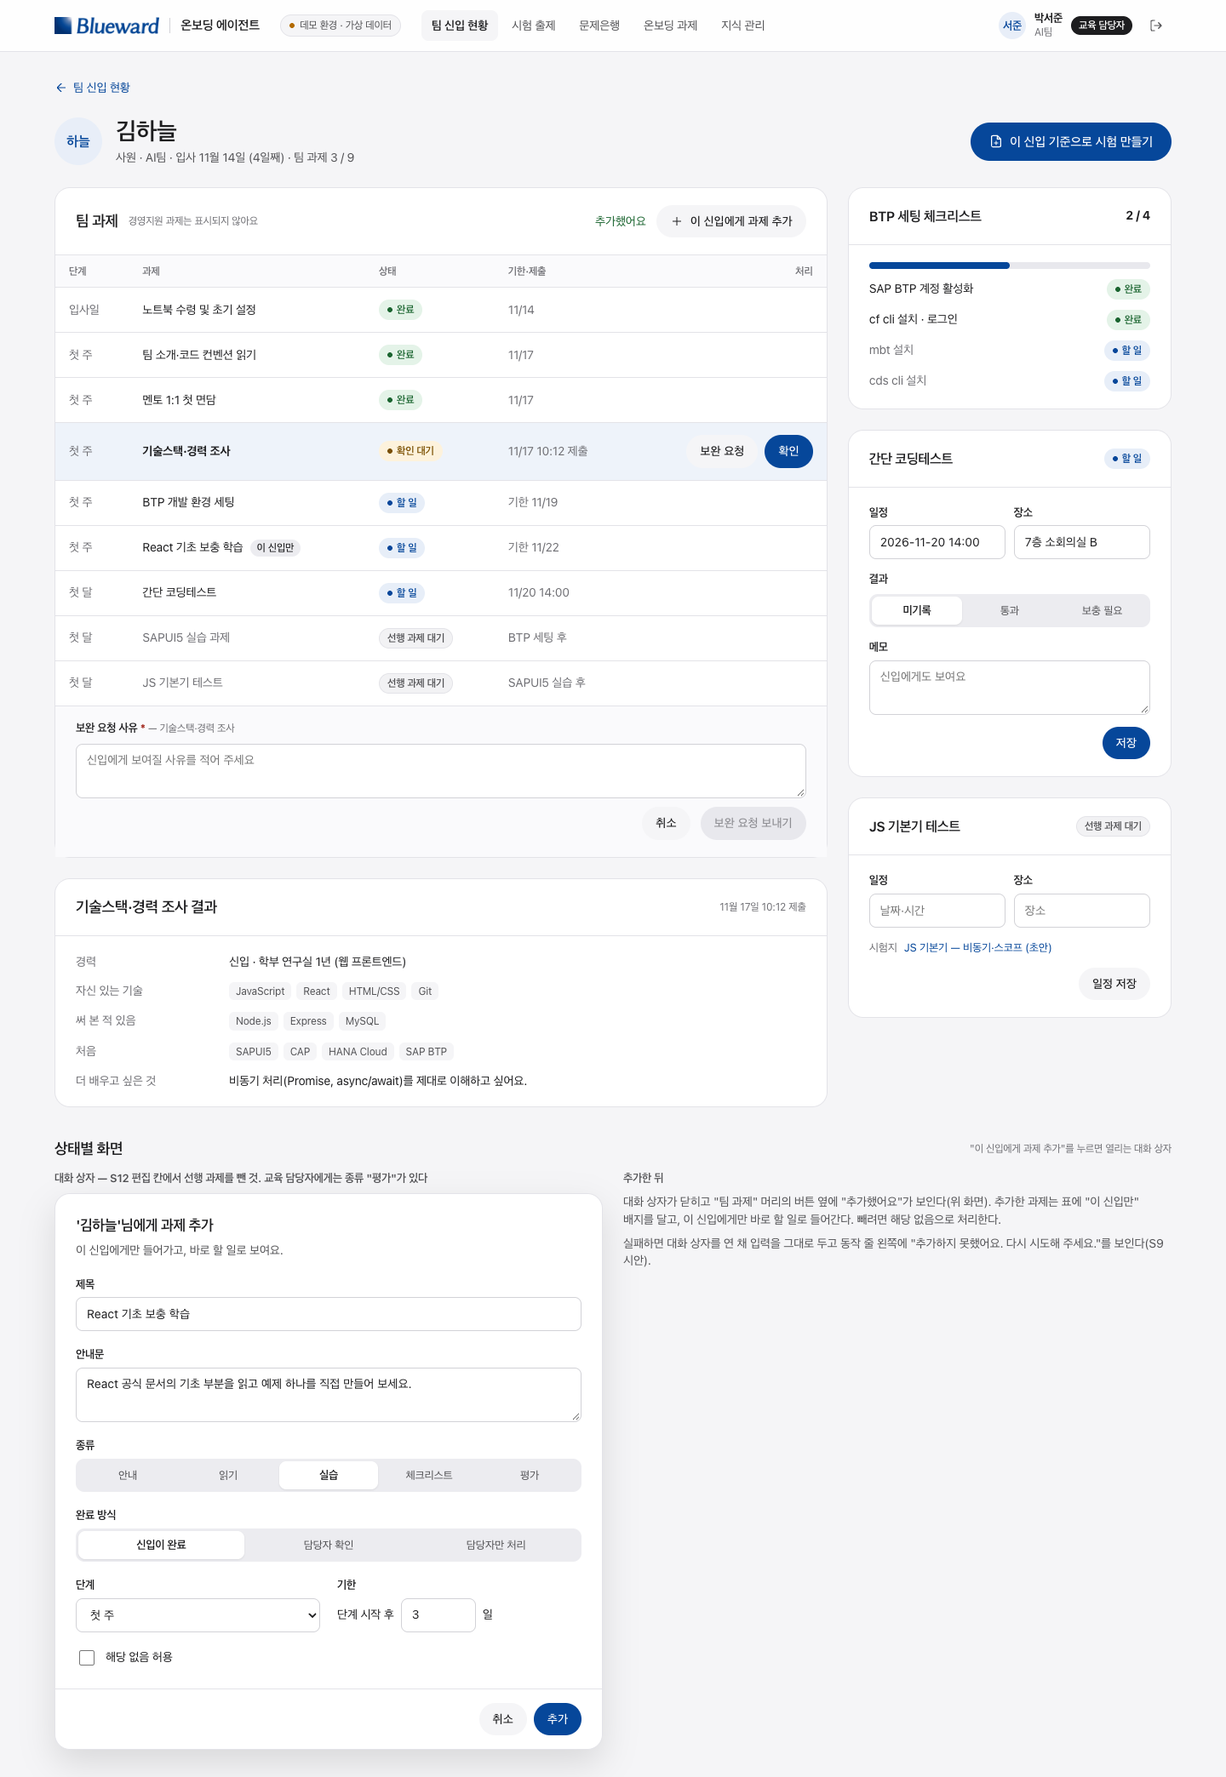
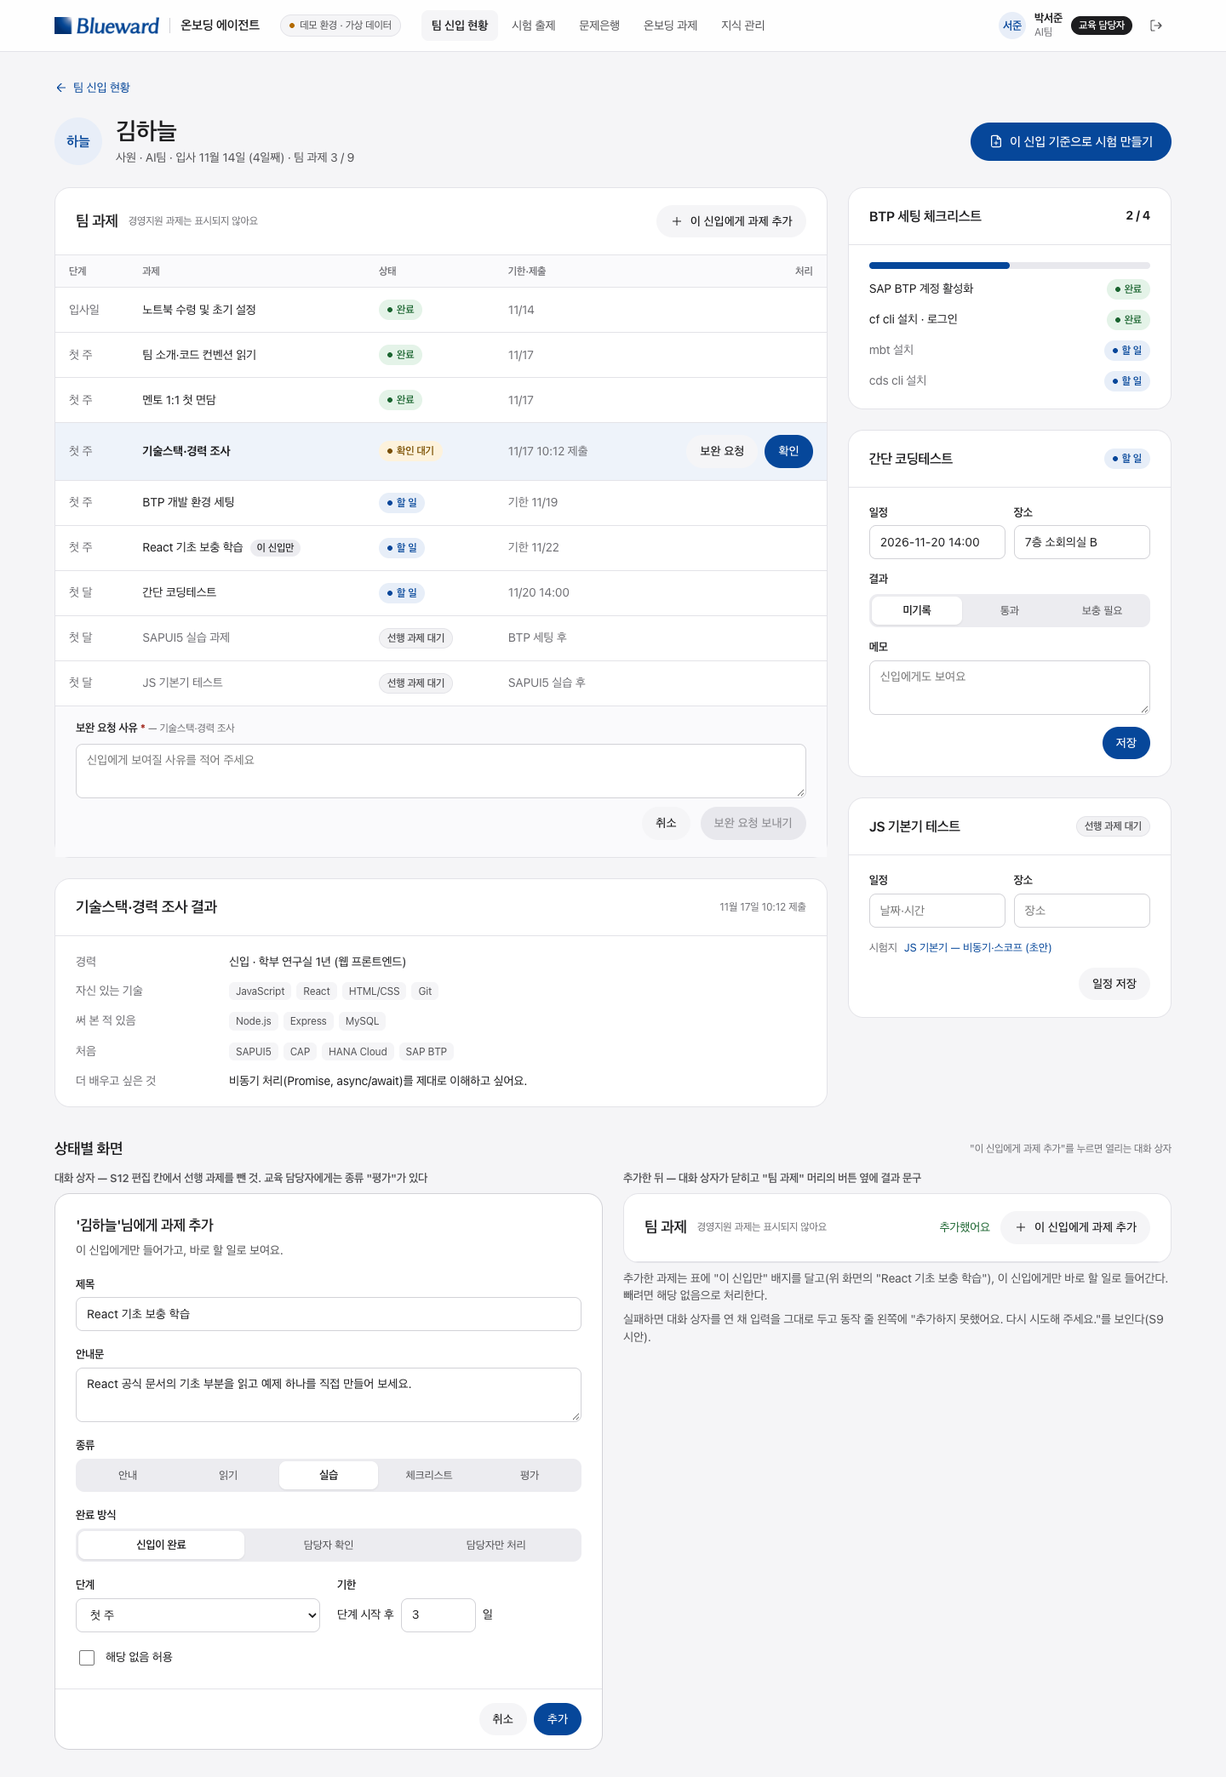
fix(design): particle-safe copy, borderless-shadow dialogs, legible read-only fields
- Copy: put a noun after quoted names so the particle never depends on
  the name ('파일 이름' 파일은/파일이/서식이/서식을, '제목' 과제를) in
  screens.md, both plans and the S12 mockup.
- Dialogs: drop the shadow (depth by borders only) and use the strong
  border, like the app's dialog.
- Read-only fields (S12 lock and archive): muted background with full
  text and the chosen segment kept as is, instead of fading the value.
  system.md gets the rule.
- S6: "추가했어요" moves from the base screen into a labeled state frame.
- ui.css comment points to S12 온보딩 과제.

Changed region(s): [[0.5, 0.6537, 0.9375, 0.7471]]

diff --git a/docs/design/onboarding-design/screens/S12-tasks.html b/docs/design/onboarding-design/screens/S12-tasks.html
@@ -33,9 +33,10 @@ a{color:var(--primary)}a:hover{color:var(--primary-pressed)}
 /* 체크리스트 항목 편집 */
 .items{display:flex;flex-direction:column;gap:8px}
 .item{display:flex;align-items:center;gap:6px}
-/* 비활성 칸은 코드(components/ui)의 disabled:opacity-50과 같게 */
-.input:disabled,.textarea:disabled,.select:disabled{opacity:.5;cursor:not-allowed}
-.check:has(input:disabled){opacity:.5;cursor:not-allowed}
+/* 읽기 전용 칸(사용 중 잠금·보관): 흐리게 하지 않는다. muted 바탕에 글자는 그대로, 세그먼트는 고른 값만 그대로(system.md "읽기 전용 칸") */
+.input:disabled,.textarea:disabled,.select:disabled{background:var(--canvas);color:var(--foreground);opacity:1;cursor:not-allowed}
+.seg label:has(input:disabled:checked){opacity:1}
+.check:has(input:disabled){cursor:not-allowed}
 /* 패널 동작 줄(편집 칸 아래). 결과·오류 문구는 왼쪽 */
 .panel-actions{display:flex;flex-wrap:wrap;align-items:center;justify-content:flex-end;gap:8px;padding:16px 24px;border-top:1px solid var(--border)}
 /* 서식 영역(편집 칸 동작 줄 아래, 저장과 따로 바로 올라간다) */
@@ -44,7 +45,8 @@ a{color:var(--primary)}a:hover{color:var(--primary-pressed)}
 .ok-text{font-size:14px;color:var(--st-done-fg)}
 .err-text{font-size:14px;color:var(--destructive)}
 .empty{padding:56px 24px;text-align:center;color:var(--muted);font-size:14px}
-.dialog{padding:24px;display:flex;flex-direction:column;gap:10px;box-shadow:0 16px 40px rgba(0,0,0,.12)}
+/* 확인 창: 그림자 없이 진한 테두리(깊이는 테두리로만) */
+.dialog{padding:24px;display:flex;flex-direction:column;gap:10px;border-color:var(--border-strong)}
 .states{display:flex;flex-direction:column;gap:16px;margin-top:12px}
 .states h3{font-size:15px;color:var(--secondary)}
 .state-grid-2{display:grid;grid-template-columns:repeat(2,minmax(0,1fr));gap:16px 24px;align-items:start}
@@ -449,14 +451,14 @@ a{color:var(--primary)}a:hover{color:var(--primary-pressed)}
           <div class="alert alert-err" role="alert" style="padding: 12px 14px; font-size: 13px">
             <svg class="ic" viewBox="0 0 24 24" aria-hidden="true" style="margin-top: 1px"><circle cx="12" cy="12" r="10"></circle><path d="M12 8v4M12 16h.01"></path></svg>
             <div style="display: flex; flex-direction: column; gap: 2px; flex: 1">
-              <span>'법인카드 사본.jpg'은 올릴 수 없어요. docx, xlsx, pdf 파일만 올릴 수 있어요.</span>
-              <span>'카드 이용 약관.pdf'이 10MB를 넘어요. 10MB 이하로 줄여서 올려 주세요.</span>
-              <span>'카드 신청 안내.pdf'이 이미 있어요. 바꾸려면 기존 서식을 지운 뒤 올려 주세요.</span>
+              <span>'법인카드 사본.jpg' 파일은 올릴 수 없어요. docx, xlsx, pdf 파일만 올릴 수 있어요.</span>
+              <span>'카드 이용 약관.pdf' 파일이 10MB를 넘어요. 10MB 이하로 줄여서 올려 주세요.</span>
+              <span>'카드 신청 안내.pdf' 서식이 이미 있어요. 바꾸려면 기존 서식을 지운 뒤 올려 주세요.</span>
             </div>
             <button class="icon-btn" type="button" aria-label="알림 닫기" style="width: 28px; height: 28px; color: var(--alert-err-fg)"><svg class="ic" viewBox="0 0 24 24" aria-hidden="true"><path d="M18 6L6 18M6 6l12 12"></path></svg></button>
           </div>
           <div role="alertdialog" aria-labelledby="del-t" aria-describedby="del-d" class="card dialog">
-            <h2 id="del-t" style="font-size: 17px">'카드 신청 안내.pdf'을 지울까요?</h2>
+            <h2 id="del-t" style="font-size: 17px">'카드 신청 안내.pdf' 서식을 지울까요?</h2>
             <p id="del-d" class="secondary">이 과제를 받은 신입 모두의 화면에서 사라져요.</p>
             <div class="row" style="justify-content: flex-end; gap: 8px; margin-top: 8px"><button class="btn btn-ghost btn-sm" type="button">취소</button><button class="btn btn-destructive btn-sm" type="button">지우기</button></div>
           </div>
@@ -468,7 +470,7 @@ a{color:var(--primary)}a:hover{color:var(--primary-pressed)}
         <div class="col" style="gap: 8px">
           <span class="state-label">보관 확인</span>
           <div role="alertdialog" aria-labelledby="arc-t" aria-describedby="arc-d" class="card dialog">
-            <h2 id="arc-t" style="font-size: 17px">'프린터 사용'을 보관할까요?</h2>
+            <h2 id="arc-t" style="font-size: 17px">'프린터 사용' 과제를 보관할까요?</h2>
             <p id="arc-d" class="secondary">이후 온보딩을 시작하는 신입에게 들어가지 않아요. 진행 중인 신입의 과제는 그대로예요.</p>
             <div class="row" style="justify-content: flex-end; gap: 8px; margin-top: 8px"><button class="btn btn-ghost btn-sm" type="button">취소</button><button class="btn btn-primary btn-sm" type="button">보관</button></div>
           </div>

diff --git a/docs/design/onboarding-design/screens/S6-hire-detail.html b/docs/design/onboarding-design/screens/S6-hire-detail.html
@@ -51,8 +51,8 @@ a{color:var(--primary)}a:hover{color:var(--primary-pressed)}
         <section class="card">
           <div class="card-hd">
             <div class="row" style="gap: 12px; flex-wrap: wrap"><h2 style="font-size: 18px">팀 과제</h2><span class="caption">경영지원 과제는 표시되지 않아요</span></div>
-            <!-- 이 신입에게 과제 추가: 대화 상자를 연다(아래 상태별 화면). 추가하면 닫히고 버튼 옆에 결과 문구 -->
-            <div class="row" style="gap: 12px"><span role="status" class="ok-text">추가했어요</span><button class="btn btn-ghost btn-sm" type="button" aria-haspopup="dialog"><svg class="ic" viewBox="0 0 24 24" aria-hidden="true"><path d="M12 5v14M5 12h14"></path></svg>이 신입에게 과제 추가</button></div>
+            <!-- 이 신입에게 과제 추가: 대화 상자를 연다(아래 상태별 화면). 추가하면 닫히고 버튼 옆에 결과 문구(아래 "추가한 뒤") -->
+            <div class="row" style="gap: 12px"><button class="btn btn-ghost btn-sm" type="button" aria-haspopup="dialog"><svg class="ic" viewBox="0 0 24 24" aria-hidden="true"><path d="M12 5v14M5 12h14"></path></svg>이 신입에게 과제 추가</button></div>
           </div>
           <div class="tbl-wrap">
             <table class="tbl">
@@ -138,7 +138,7 @@ a{color:var(--primary)}a:hover{color:var(--primary-pressed)}
       <div class="grid-2" style="gap: 24px; align-items: start">
         <div class="col" style="gap: 8px">
           <span class="state-label">대화 상자 — S12 편집 칸에서 선행 과제를 뺀 것. 교육 담당자에게는 종류 "평가"가 있다</span>
-          <div role="dialog" aria-modal="true" aria-labelledby="add-t" aria-describedby="add-d" class="card" style="overflow: hidden; box-shadow: 0 16px 40px rgba(0, 0, 0, 0.12)">
+          <div role="dialog" aria-modal="true" aria-labelledby="add-t" aria-describedby="add-d" class="card" style="overflow: hidden; border-color: var(--border-strong)">
             <div class="col" style="gap: 6px; padding: 24px 24px 0">
               <h2 id="add-t" style="font-size: 17px">'김하늘'님에게 과제 추가</h2>
               <p id="add-d" class="secondary">이 신입에게만 들어가고, 바로 할 일로 보여요.</p>
@@ -162,8 +162,14 @@ a{color:var(--primary)}a:hover{color:var(--primary-pressed)}
           </div>
         </div>
         <div class="col" style="gap: 8px">
-          <span class="state-label">추가한 뒤</span>
-          <p class="secondary">대화 상자가 닫히고 "팀 과제" 머리의 버튼 옆에 "추가했어요"가 보인다(위 화면). 추가한 과제는 표에 "이 신입만" 배지를 달고, 이 신입에게만 바로 할 일로 들어간다. 빼려면 해당 없음으로 처리한다.</p>
+          <span class="state-label">추가한 뒤 — 대화 상자가 닫히고 "팀 과제" 머리의 버튼 옆에 결과 문구</span>
+          <section class="card" style="overflow: hidden">
+            <div class="card-hd">
+              <div class="row" style="gap: 12px; flex-wrap: wrap"><h2 style="font-size: 18px">팀 과제</h2><span class="caption">경영지원 과제는 표시되지 않아요</span></div>
+              <div class="row" style="gap: 12px"><span role="status" class="ok-text">추가했어요</span><button class="btn btn-ghost btn-sm" type="button" aria-haspopup="dialog"><svg class="ic" viewBox="0 0 24 24" aria-hidden="true"><path d="M12 5v14M5 12h14"></path></svg>이 신입에게 과제 추가</button></div>
+            </div>
+          </section>
+          <p class="secondary">추가한 과제는 표에 "이 신입만" 배지를 달고(위 화면의 "React 기초 보충 학습"), 이 신입에게만 바로 할 일로 들어간다. 빼려면 해당 없음으로 처리한다.</p>
           <p class="secondary">실패하면 대화 상자를 연 채 입력을 그대로 두고 동작 줄 왼쪽에 "추가하지 못했어요. 다시 시도해 주세요."를 보인다(S9 시안).</p>
         </div>
       </div>

diff --git a/docs/design/onboarding-design/screens/S9-ops.html b/docs/design/onboarding-design/screens/S9-ops.html
@@ -122,7 +122,7 @@ a{color:var(--primary)}a:hover{color:var(--primary-pressed)}
       <div class="grid-2" style="gap: 24px; align-items: start">
         <div class="col" style="gap: 8px">
           <span class="state-label">대화 상자 — S6과 같다. 경영지원에게는 종류 "평가"가 없다</span>
-          <div role="dialog" aria-modal="true" aria-labelledby="add-t" aria-describedby="add-d" class="card" style="overflow: hidden; box-shadow: 0 16px 40px rgba(0, 0, 0, 0.12)">
+          <div role="dialog" aria-modal="true" aria-labelledby="add-t" aria-describedby="add-d" class="card" style="overflow: hidden; border-color: var(--border-strong)">
             <div class="col" style="gap: 6px; padding: 24px 24px 0">
               <h2 id="add-t" style="font-size: 17px">'이도윤'님에게 과제 추가</h2>
               <p id="add-d" class="secondary">이 신입에게만 들어가고, 바로 할 일로 보여요.</p>

diff --git a/docs/design/onboarding-design/assets/ui.css b/docs/design/onboarding-design/assets/ui.css
@@ -239,7 +239,7 @@ a{color:var(--link);text-decoration:none}a:hover{text-decoration:underline}
 /* Side sheet */
 .sheet{background:var(--surface);border:1px solid var(--border);border-radius:var(--radius-card);overflow:hidden}
 
-/* Form files (S3 작성할 서식, S12 과제 서식) */
+/* Form files (S3 작성할 서식, S12 온보딩 과제) */
 .files{border:1px solid var(--border);border-radius:12px;overflow:hidden;background:var(--surface)}
 .file{display:flex;align-items:center;gap:12px;padding:12px 14px;border-bottom:1px solid var(--border)}
 .file:last-child{border-bottom:0}

diff --git a/docs/screens.md b/docs/screens.md
@@ -172,7 +172,7 @@
 | 저장 | 저장했어요 |
 | 저장 실패 | 저장하지 못했어요. 잠시 후 다시 시도해 주세요. |
 | 체크리스트 없음 | 체크리스트 항목을 하나 이상 넣어 주세요. |
-| 보관 확인 | '제목'을 보관할까요? / 이후 온보딩을 시작하는 신입에게 들어가지 않아요. 진행 중인 신입의 과제는 그대로예요. / 취소 · 보관 |
+| 보관 확인 | '제목' 과제를 보관할까요? / 이후 온보딩을 시작하는 신입에게 들어가지 않아요. 진행 중인 신입의 과제는 그대로예요. / 취소 · 보관 |
 | 보관함 | 보관했어요 |
 | 다시 사용 | 다시 사용해요. 이후 온보딩을 시작하는 신입부터 들어가요. |
 
@@ -183,7 +183,7 @@
   - 파일 행: 형식 아이콘, 이름, 형식·크기·올린 사람·날짜, 내려받기·지우기 아이콘 버튼(마우스를 올리면 툴팁).
   - 기본 서식에는 "기본 서식" 배지를 붙이고 지우기 버튼을 두지 않는다.
   - 업로드 영역: 끌어다 놓기 + "파일 선택" 버튼(여러 개 가능). 안내 "docx, xlsx, pdf · 파일당 10MB까지"와 경고 "가상 서식만 올려 주세요. 실명·연락처 같은 개인정보나 실제 사내 문서는 올리지 않아요."
-- 기능: 올리기, 내려받기, 지우기(확인 창: "'파일 이름'을 지울까요?" / "이 과제를 받은 신입 모두의 화면에서 사라져요." / 취소 · 지우기). 교체는 지우고 다시 올린다.
+- 기능: 올리기, 내려받기, 지우기(확인 창: "'파일 이름' 서식을 지울까요?" / "이 과제를 받은 신입 모두의 화면에서 사라져요." / 취소 · 지우기). 교체는 지우고 다시 올린다.
 - 상태:
 
 | 상황 | 문구 |
@@ -195,9 +195,9 @@
 | 올리는 중 | 올리는 중 (목록 맨 위 행) |
 | 올림 | N개 올렸어요 |
 | 올리기 실패 | 올리지 못했어요. 다시 시도해 주세요. (행에 "다시 시도" 버튼) |
-| 형식 거절 | '파일 이름'은 올릴 수 없어요. docx, xlsx, pdf 파일만 올릴 수 있어요. |
-| 크기 거절 | '파일 이름'이 10MB를 넘어요. 10MB 이하로 줄여서 올려 주세요. |
-| 같은 이름 | '파일 이름'이 이미 있어요. 바꾸려면 기존 서식을 지운 뒤 올려 주세요. |
+| 형식 거절 | '파일 이름' 파일은 올릴 수 없어요. docx, xlsx, pdf 파일만 올릴 수 있어요. |
+| 크기 거절 | '파일 이름' 파일이 10MB를 넘어요. 10MB 이하로 줄여서 올려 주세요. |
+| 같은 이름 | '파일 이름' 서식이 이미 있어요. 바꾸려면 기존 서식을 지운 뒤 올려 주세요. |
 | 지움 | 지웠어요 |
 | 저장 전 새 과제 | 과제를 저장하면 서식을 올릴 수 있어요. |
 | 보관된 과제 | 보관한 과제에는 서식을 올릴 수 없어요. |

diff --git a/docs/superpowers/plans/2026-11-18-onboarding-tasks-and-forms.md b/docs/superpowers/plans/2026-11-18-onboarding-tasks-and-forms.md
@@ -274,17 +274,17 @@ PR ③을 연다(⓪ Leo 확인 뒤).
   - 저장 전 → 안내 문구만, 업로드 영역 없음
   - 서식 없음 → "아직 올린 서식이 없어요. 신입이 작성해야 할 Word·Excel·PDF 양식을 올려 주세요."
   - 파일 2개 선택 → `uploadTaskFile` 2회, 진행 중 목록 맨 위에 "올리는 중" 행, 끝나면 "2개 올렸어요"
-  - `메모.txt` 선택 → "'메모.txt'은 올릴 수 없어요. docx, xlsx, pdf 파일만 올릴 수 있어요."(screens.md 문구와 같게), `uploadTaskFile` 호출 없음
-  - 11MB 파일 → "'큰 파일.pdf'이 10MB를 넘어요. 10MB 이하로 줄여서 올려 주세요."
-  - `23505` → "'법인카드 신청서.xlsx'이 이미 있어요. 바꾸려면 기존 서식을 지운 뒤 올려 주세요."  *(Review Focus 3)*
+  - `메모.txt` 선택 → "'메모.txt' 파일은 올릴 수 없어요. docx, xlsx, pdf 파일만 올릴 수 있어요."(screens.md 문구와 같게), `uploadTaskFile` 호출 없음
+  - 11MB 파일 → "'큰 파일.pdf' 파일이 10MB를 넘어요. 10MB 이하로 줄여서 올려 주세요."
+  - `23505` → "'법인카드 신청서.xlsx' 서식이 이미 있어요. 바꾸려면 기존 서식을 지운 뒤 올려 주세요."  *(Review Focus 3)*
   - 그 밖의 실패 → 행에 "올리지 못했어요. 다시 시도해 주세요." + "다시 시도" → 같은 파일로 `uploadTaskFile` 재호출
   - 끌어 올린 상태 → "놓으면 바로 올려요"
-  - 지우기 → 확인 창 "'파일 이름'을 지울까요?" / "이 과제를 받은 신입 모두의 화면에서 사라져요." → 확인 시 `deleteTaskFile`, "지웠어요"
+  - 지우기 → 확인 창 "'파일 이름' 서식을 지울까요?" / "이 과제를 받은 신입 모두의 화면에서 사라져요." → 확인 시 `deleteTaskFile`, "지웠어요"
   - 기본 서식 행: "기본 서식" 배지, 지우기 버튼 없음
   - `archived` → 업로드 영역 없음, 보관 문구
   - `TemplatesPage`: 사용 중(잠금) 과제를 골라도 업로드 영역이 활성; "과제 추가" 직후에는 저장 전 문구; 새 과제를 저장하면 같은 패널에 업로드 영역이 나타난다
 - [ ] **Step 2: 실패 확인.**
-- [ ] **Step 3: 구현** — 시안 `S12-tasks.html` 그대로. 조사('은/이')는 screens.md 표의 글자를 따른다.
+- [ ] **Step 3: 구현** — 시안 `S12-tasks.html` 그대로. 문구는 screens.md 표의 글자를 따른다(따옴표 이름 뒤에 "파일"·"서식"을 붙여 조사가 이름에 따라 바뀌지 않게 한다).
 - [ ] **Step 4: 통과 확인** — `npm run test:web`, `bash scripts/check-design.sh`.
 - [ ] **Step 5:** `/design-review` blocker 0. 커밋 `feat(web): manage task forms on the onboarding tasks page`
 

diff --git a/.interface-design/system.md b/.interface-design/system.md
@@ -83,6 +83,7 @@
 
 - **높이 덮어쓰기 금지:** `className="h-11 px-5"`처럼 높이·좌우 여백을 덮어쓰지 않고 `size`를 고른다.
 - **비활성 주 버튼:** 흐린 파랑이 아니라 회색(`bg-track`, `text-disabled-foreground`)이다.
+- **읽기 전용 칸:** 잠기거나 보관돼 고칠 수 없는 칸(S12 사용 중 잠금·보관 보기)은 값이 읽혀야 하므로 흐리게(`opacity`) 하지 않는다. 입력·select·textarea는 `bg-muted` 바탕에 글자를 `text-foreground` 그대로 두고, `SegmentedRadio`는 고른 값만 그대로 두고 고르지 않은 값만 흐리게 한다. 커서는 `cursor-not-allowed`. 시안 `S12-tasks` ③·④.
 - **칩:** 보이는 높이는 36(`h-9`)이고, `after:-inset-y-1`로 누르는 영역을 44까지 넓힌다. 칩 사이 줄 간격은 8 이상으로 두어 누르는 영역이 겹치지 않게 한다. 가로 스크롤 상자 안이면 상자에 `py-1`을 줘서 넓힌 영역이 잘리지 않게 한다.
 - **폼 컨트롤:** `components/ui`의 `Input`, `NativeSelect`, `Textarea`, `Checkbox`만 쓴다. `NativeSelect`는 브라우저 기본 select에 Input과 같은 테두리와 화살표를 입힌 것이고, `className`은 바깥 상자(너비)에 붙는다. 입력 스타일 문자열을 화면 파일에 복사하지 않는다.
 - **체크리스트 행:** 신입 화면에서는 한 줄 높이를 44(`min-h-11`), 체크박스를 18px로 한다.

diff --git a/docs/superpowers/plans/2026-11-18-onboarding-plan.md b/docs/superpowers/plans/2026-11-18-onboarding-plan.md
@@ -194,7 +194,7 @@ S12. 온보딩 과제 `/tasks`
 | 저장 | 저장했어요 |
 | 저장 실패 | 저장하지 못했어요. 잠시 후 다시 시도해 주세요. |
 | 체크리스트 없음 | 체크리스트 항목을 하나 이상 넣어 주세요. |
-| 보관 확인 | '제목'을 보관할까요? / 이후 온보딩을 시작하는 신입에게 들어가지 않아요. 진행 중인 신입의 과제는 그대로예요. / 취소 · 보관 |
+| 보관 확인 | '제목' 과제를 보관할까요? / 이후 온보딩을 시작하는 신입에게 들어가지 않아요. 진행 중인 신입의 과제는 그대로예요. / 취소 · 보관 |
 | 보관함 | 보관했어요 |
 | 다시 사용 | 다시 사용해요. 이후 온보딩을 시작하는 신입부터 들어가요. |
 
